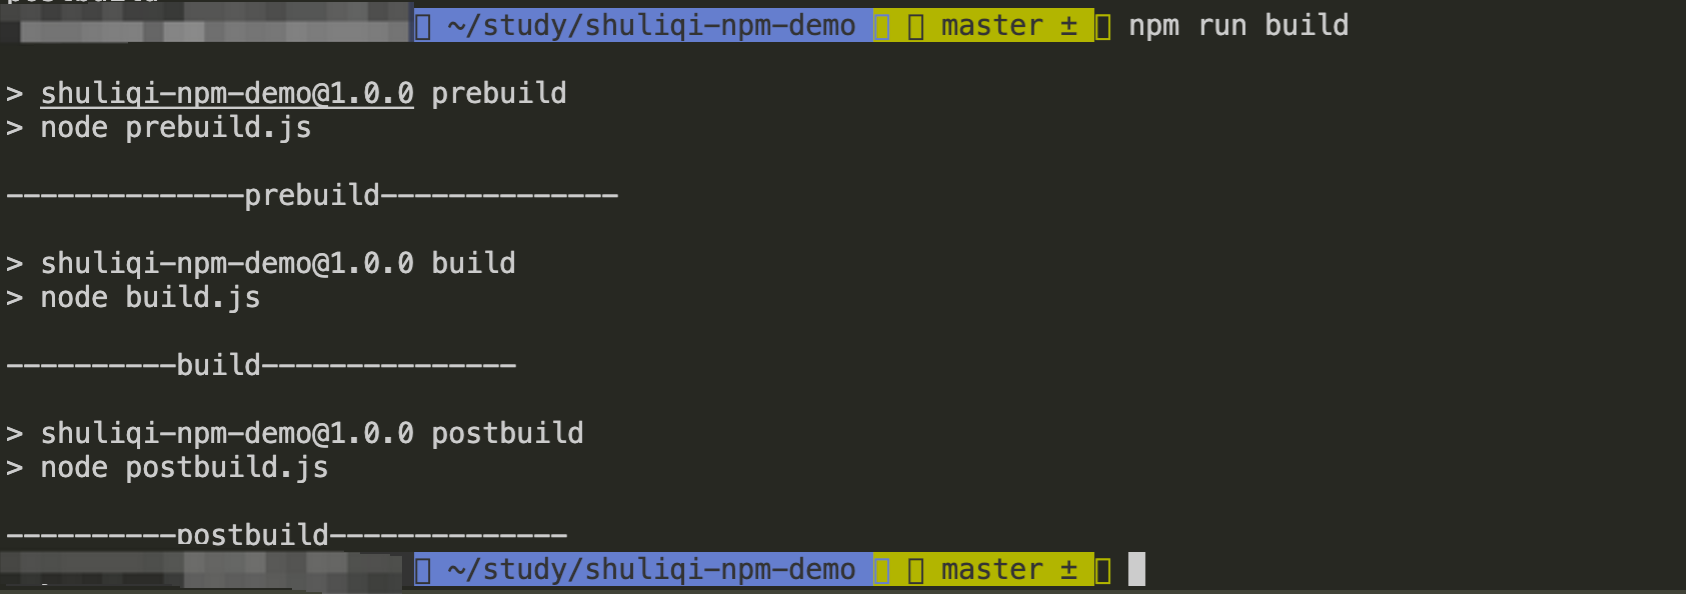
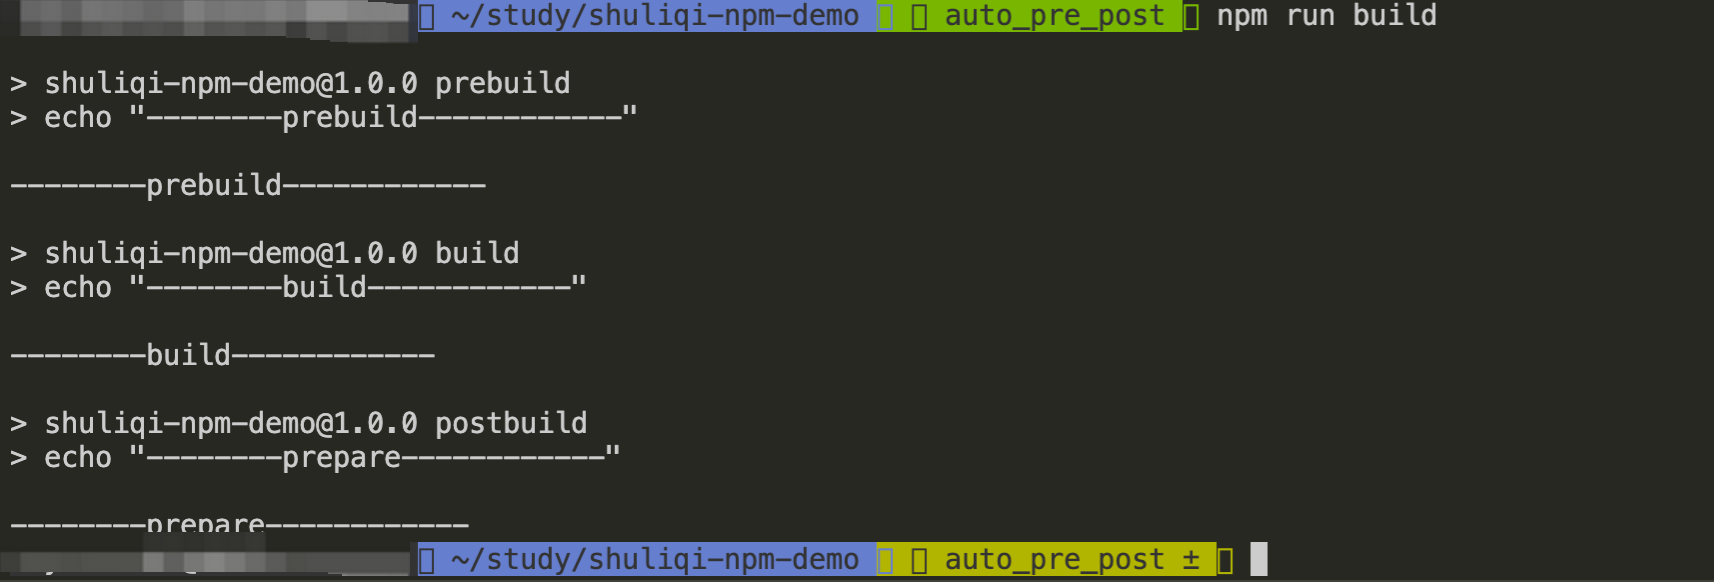
Site updated: 2022-03-22 20:47:21

diff --git a/2022/02/23/npm scripts 你真的了解吗？/index.html b/2022/02/23/npm scripts 你真的了解吗？/index.html
@@ -8,7 +8,7 @@
     noSupport: '浏览器不支持'
   },
   hexoVersion: '5.4.0'
-} </script><meta name="generator" content="Hexo 5.4.0"></head><body><i class="fa fa-arrow-right" id="toggle-sidebar" aria-hidden="true"></i><div id="sidebar" data-display="true"><div class="toggle-sidebar-info text-center"><span data-toggle="切换文章详情">切换站点概览</span><hr></div><div class="sidebar-toc"><div class="sidebar-toc__title">目录</div><div class="sidebar-toc__progress"><span class="progress-notice">你已经读了</span><span class="progress-num">0</span><span class="progress-percentage">%</span><div class="sidebar-toc__progress-bar"></div></div><div class="sidebar-toc__content"><ol class="toc"><li class="toc-item toc-level-1"><a class="toc-link" href="#%E4%BB%80%E4%B9%88%E6%98%AF-npm-%E8%84%9A%E6%9C%AC-%EF%BC%9F"><span class="toc-number">1.</span> <span class="toc-text">什么是 npm 脚本 ？</span></a></li><li class="toc-item toc-level-1"><a class="toc-link" href="#%E6%89%A7%E8%A1%8C%E5%8E%9F%E7%90%86"><span class="toc-number">2.</span> <span class="toc-text">执行原理</span></a></li><li class="toc-item toc-level-1"><a class="toc-link" href="#%E9%80%9A%E9%85%8D%E7%AC%A6"><span class="toc-number">3.</span> <span class="toc-text">通配符</span></a></li><li class="toc-item toc-level-1"><a class="toc-link" href="#%E7%94%9F%E5%91%BD%E5%91%A8%E6%9C%9F%E8%84%9A%E6%9C%AC"><span class="toc-number">4.</span> <span class="toc-text">生命周期脚本</span></a></li><li class="toc-item toc-level-1"><a class="toc-link" href="#%E4%BE%8B%E5%AD%90%E5%87%86%E5%A4%87"><span class="toc-number">5.</span> <span class="toc-text">例子准备</span></a></li><li class="toc-item toc-level-1"><a class="toc-link" href="#pre-%E5%92%8C-post-%E7%94%9F%E5%91%BD%E5%91%A8%E6%9C%9F"><span class="toc-number">6.</span> <span class="toc-text">pre 和 post 生命周期</span></a><ol class="toc-child"><li class="toc-item toc-level-2"><a class="toc-link" href="#%E7%B3%BB%E7%BB%9F%E8%87%AA%E5%B8%A6%E5%91%BD%E4%BB%A4%E7%94%9F%E5%91%BD%E5%91%A8%E6%9C%9F"><span class="toc-number">6.1.</span> <span class="toc-text">系统自带命令生命周期</span></a><ol class="toc-child"><li class="toc-item toc-level-3"><a class="toc-link" href="#npm-publish"><span class="toc-number">6.1.1.</span> <span class="toc-text">npm publish</span></a></li></ol></li></ol></li></ol></div></div><div class="author-info hide"><div class="author-info__avatar text-center"><img src="http://p6.qhimg.com/t01f5a5270b7946b505.jpg"></div><div class="author-info__name text-center">舒小琦</div><div class="author-info__description text-center"></div><hr><div class="author-info-articles"><a class="author-info-articles__archives article-meta" href="/archives"><span class="pull-left">文章</span><span class="pull-right">57</span></a><a class="author-info-articles__tags article-meta" href="/tags"><span class="pull-left">标签</span><span class="pull-right">13</span></a><a class="author-info-articles__categories article-meta" href="/categories"><span class="pull-left">分类</span><span class="pull-right">13</span></a></div></div></div><div id="content-outer"><div id="top-container" style="background-image: url(/webp.webp)"><div id="page-header"><span class="pull-left"> <a id="site-name" href="/">舒小琦的Blog</a></span><i class="fa fa-bars toggle-menu pull-right" aria-hidden="true"></i><span class="pull-right menus">   <a class="site-page" href="/">首页</a><a class="site-page" href="/archives">归档</a><a class="site-page" href="/tags">标签</a><a class="site-page" href="/categories">分类</a><a class="site-page" href="/shuliqi-design">组件</a><a class="site-page" href="/about">关于</a></span><span class="pull-right"><a class="site-page social-icon search"><i class="fa fa-search"></i><span> 搜索</span></a></span></div><div id="post-info"><div id="post-title">你真的了解 npm 脚本吗？</div><div id="post-meta"><time class="post-meta__date"><i class="fa fa-calendar" aria-hidden="true"></i> 2022-02-23</time></div></div></div><div class="layout" id="content-inner"><article id="post"><div class="article-container" id="post-content"><p>最近在写一个<code>npm</code>包。写的过程中主要存在的问题是如何在 <code>npm i &lt;package&gt;</code> 之前能够先执行一个脚本。我们本篇文章带着这个问题去了解 <code>  npm</code> 脚本。</p>
+} </script><meta name="generator" content="Hexo 5.4.0"></head><body><i class="fa fa-arrow-right" id="toggle-sidebar" aria-hidden="true"></i><div id="sidebar" data-display="true"><div class="toggle-sidebar-info text-center"><span data-toggle="切换文章详情">切换站点概览</span><hr></div><div class="sidebar-toc"><div class="sidebar-toc__title">目录</div><div class="sidebar-toc__progress"><span class="progress-notice">你已经读了</span><span class="progress-num">0</span><span class="progress-percentage">%</span><div class="sidebar-toc__progress-bar"></div></div><div class="sidebar-toc__content"><ol class="toc"><li class="toc-item toc-level-1"><a class="toc-link" href="#%E4%BB%80%E4%B9%88%E6%98%AF-npm-%E8%84%9A%E6%9C%AC-%EF%BC%9F"><span class="toc-number">1.</span> <span class="toc-text">什么是 npm 脚本 ？</span></a></li><li class="toc-item toc-level-1"><a class="toc-link" href="#%E6%89%A7%E8%A1%8C%E5%8E%9F%E7%90%86"><span class="toc-number">2.</span> <span class="toc-text">执行原理</span></a></li><li class="toc-item toc-level-1"><a class="toc-link" href="#%E9%80%9A%E9%85%8D%E7%AC%A6"><span class="toc-number">3.</span> <span class="toc-text">通配符</span></a></li><li class="toc-item toc-level-1"><a class="toc-link" href="#%E7%94%9F%E5%91%BD%E5%91%A8%E6%9C%9F%E8%84%9A%E6%9C%AC"><span class="toc-number">4.</span> <span class="toc-text">生命周期脚本</span></a></li><li class="toc-item toc-level-1"><a class="toc-link" href="#%E4%BE%8B%E5%AD%90%E5%87%86%E5%A4%87"><span class="toc-number">5.</span> <span class="toc-text">例子准备</span></a></li><li class="toc-item toc-level-1"><a class="toc-link" href="#pre-%E5%92%8C-post-%E7%94%9F%E5%91%BD%E5%91%A8%E6%9C%9F"><span class="toc-number">6.</span> <span class="toc-text">pre 和 post 生命周期</span></a></li><li class="toc-item toc-level-1"><a class="toc-link" href="#%E7%94%9F%E5%91%BD%E5%91%A8%E6%9C%9F"><span class="toc-number">7.</span> <span class="toc-text">生命周期</span></a><ol class="toc-child"><li class="toc-item toc-level-2"><a class="toc-link" href="#npm-publish"><span class="toc-number">7.1.</span> <span class="toc-text">npm publish</span></a></li><li class="toc-item toc-level-2"><a class="toc-link" href="#npm-pack"><span class="toc-number">7.2.</span> <span class="toc-text">npm pack</span></a></li><li class="toc-item toc-level-2"><a class="toc-link" href="#npm-install"><span class="toc-number">7.3.</span> <span class="toc-text">npm install</span></a></li><li class="toc-item toc-level-2"><a class="toc-link" href="#npm-ci"><span class="toc-number">7.4.</span> <span class="toc-text">npm ci</span></a></li></ol></li></ol></div></div><div class="author-info hide"><div class="author-info__avatar text-center"><img src="http://p6.qhimg.com/t01f5a5270b7946b505.jpg"></div><div class="author-info__name text-center">舒小琦</div><div class="author-info__description text-center"></div><hr><div class="author-info-articles"><a class="author-info-articles__archives article-meta" href="/archives"><span class="pull-left">文章</span><span class="pull-right">57</span></a><a class="author-info-articles__tags article-meta" href="/tags"><span class="pull-left">标签</span><span class="pull-right">13</span></a><a class="author-info-articles__categories article-meta" href="/categories"><span class="pull-left">分类</span><span class="pull-right">13</span></a></div></div></div><div id="content-outer"><div id="top-container" style="background-image: url(/webp.webp)"><div id="page-header"><span class="pull-left"> <a id="site-name" href="/">舒小琦的Blog</a></span><i class="fa fa-bars toggle-menu pull-right" aria-hidden="true"></i><span class="pull-right menus">   <a class="site-page" href="/">首页</a><a class="site-page" href="/archives">归档</a><a class="site-page" href="/tags">标签</a><a class="site-page" href="/categories">分类</a><a class="site-page" href="/shuliqi-design">组件</a><a class="site-page" href="/about">关于</a></span><span class="pull-right"><a class="site-page social-icon search"><i class="fa fa-search"></i><span> 搜索</span></a></span></div><div id="post-info"><div id="post-title">你真的了解 npm 脚本吗？</div><div id="post-meta"><time class="post-meta__date"><i class="fa fa-calendar" aria-hidden="true"></i> 2022-02-23</time></div></div></div><div class="layout" id="content-inner"><article id="post"><div class="article-container" id="post-content"><p>最近在写一个<code>npm</code>包。写的过程中主要存在的问题是如何在 <code>npm i &lt;package&gt;</code> 之前能够先执行一个脚本。我们本篇文章带着这个问题去了解 <code>  npm</code> 脚本。</p>
 <h1 id="什么是-npm-脚本-？"><a href="#什么是-npm-脚本-？" class="headerlink" title="什么是 npm 脚本 ？"></a>什么是 npm 脚本 ？</h1><p><code>npm  </code>  脚本是 <code>package.json </code>文件 <code>scripts</code>  字段存储的脚本命令。存储的脚本命令可以是：</p>
 <ul>
 <li><p>内置的脚本</p>
@@ -81,7 +81,7 @@
 <figure class="highlight bash"><table><tr><td class="gutter"><pre><span class="line">1</span><br><span class="line">2</span><br></pre></td><td class="code"><pre><span class="line">// index.js</span><br><span class="line">console.log(<span class="string">&quot;shuliqi-npm-demo&quot;</span>)</span><br></pre></td></tr></table></figure>
 
 <p>那么我们现在已经有了一个基础的例子。   </p>
-<h1 id="pre-和-post-生命周期"><a href="#pre-和-post-生命周期" class="headerlink" title="pre 和 post 生命周期"></a>pre 和 post 生命周期</h1><p>当我们执行任意的 <code>npm run xxx</code> 脚本的时候， 回依次自动触发<code>prexxx</code>, <code>postxxx</code>的生命周期。</p>
+<h1 id="pre-和-post-生命周期"><a href="#pre-和-post-生命周期" class="headerlink" title="pre 和 post 生命周期"></a>pre 和 post 生命周期</h1><p>当我们执行任意的 <code>npm run &lt;event&gt;</code> 脚本的时候， 回依次自动触发<code>pre&lt;event&gt;</code>, <code>post&lt;event&gt;</code>的生命周期。</p>
 <p>假如有一个命令叫 <code>build</code>。那么当执行<code>npm run build</code>时：</p>
 <ol>
 <li>在此之前先执行 <code>npm run prebuild</code></li>
@@ -89,52 +89,79 @@
 </ol>
 <p>例子：</p>
 <p><code>packge.json:</code></p>
-<figure class="highlight json"><table><tr><td class="gutter"><pre><span class="line">1</span><br><span class="line">2</span><br><span class="line">3</span><br><span class="line">4</span><br><span class="line">5</span><br><span class="line">6</span><br><span class="line">7</span><br><span class="line">8</span><br><span class="line">9</span><br><span class="line">10</span><br><span class="line">11</span><br><span class="line">12</span><br><span class="line">13</span><br></pre></td><td class="code"><pre><span class="line">&#123;</span><br><span class="line">  <span class="attr">&quot;name&quot;</span>: <span class="string">&quot;shuliqi-npm-demo&quot;</span>,</span><br><span class="line">  <span class="attr">&quot;version&quot;</span>: <span class="string">&quot;1.0.0&quot;</span>,</span><br><span class="line">  <span class="attr">&quot;description&quot;</span>: <span class="string">&quot;&quot;</span>,</span><br><span class="line">  <span class="attr">&quot;main&quot;</span>: <span class="string">&quot;index.js&quot;</span>,</span><br><span class="line">  <span class="attr">&quot;scripts&quot;</span>: &#123;</span><br><span class="line">    <span class="attr">&quot;prebuild&quot;</span>: <span class="string">&quot;node prebuild.js&quot;</span>,</span><br><span class="line">    <span class="attr">&quot;build&quot;</span>: <span class="string">&quot;node build.js&quot;</span>,</span><br><span class="line">    <span class="attr">&quot;postbuild&quot;</span>: <span class="string">&quot;node postbuild.js&quot;</span></span><br><span class="line">  &#125;,</span><br><span class="line">  <span class="attr">&quot;author&quot;</span>: <span class="string">&quot;shuliqi&quot;</span>,</span><br><span class="line">  <span class="attr">&quot;license&quot;</span>: <span class="string">&quot;ISC&quot;</span></span><br><span class="line">&#125;</span><br></pre></td></tr></table></figure>
-
-
-
-<p><code>prebuild.js:</code></p>
-<figure class="highlight javascript"><table><tr><td class="gutter"><pre><span class="line">1</span><br></pre></td><td class="code"><pre><span class="line"><span class="built_in">console</span>.log(<span class="string">&quot;--------------prebuild--------------&quot;</span>)</span><br></pre></td></tr></table></figure>
-
-
-
-<p> <code>build.js:</code></p>
-<figure class="highlight javascript"><table><tr><td class="gutter"><pre><span class="line">1</span><br></pre></td><td class="code"><pre><span class="line"><span class="built_in">console</span>.log(<span class="string">&quot;----------build---------------&quot;</span>)</span><br></pre></td></tr></table></figure>
-
-
-
-<p><code>postbuild.js：</code></p>
-<figure class="highlight javascript"><table><tr><td class="gutter"><pre><span class="line">1</span><br></pre></td><td class="code"><pre><span class="line"><span class="built_in">console</span>.log(<span class="string">&quot;----------postbuild--------------&quot;</span>)</span><br></pre></td></tr></table></figure>
-
-
+<figure class="highlight json"><table><tr><td class="gutter"><pre><span class="line">1</span><br><span class="line">2</span><br><span class="line">3</span><br><span class="line">4</span><br><span class="line">5</span><br><span class="line">6</span><br><span class="line">7</span><br><span class="line">8</span><br><span class="line">9</span><br><span class="line">10</span><br><span class="line">11</span><br><span class="line">12</span><br><span class="line">13</span><br><span class="line">14</span><br><span class="line">15</span><br></pre></td><td class="code"><pre><span class="line">&#123;</span><br><span class="line">  <span class="attr">&quot;name&quot;</span>: <span class="string">&quot;shuliqi-npm-demo&quot;</span>,</span><br><span class="line">  <span class="attr">&quot;version&quot;</span>: <span class="string">&quot;1.0.0&quot;</span>,</span><br><span class="line">  <span class="attr">&quot;description&quot;</span>: <span class="string">&quot;&quot;</span>,</span><br><span class="line">  <span class="attr">&quot;main&quot;</span>: <span class="string">&quot;index.js&quot;</span>,</span><br><span class="line"></span><br><span class="line">  <span class="attr">&quot;scripts&quot;</span>: &#123;</span><br><span class="line">    <span class="attr">&quot;prebuild&quot;</span>:  <span class="string">&quot;echo \&quot;--------prebuild------------\&quot; &quot;</span>,</span><br><span class="line">    <span class="attr">&quot;build&quot;</span>:  <span class="string">&quot;echo \&quot;--------build------------\&quot; &quot;</span>,</span><br><span class="line">    <span class="attr">&quot;postbuild&quot;</span>:  <span class="string">&quot;echo \&quot;--------prepare------------\&quot; &quot;</span></span><br><span class="line">  &#125;,</span><br><span class="line">  <span class="attr">&quot;author&quot;</span>: <span class="string">&quot;shuliqi&quot;</span>,</span><br><span class="line">  <span class="attr">&quot;license&quot;</span>: <span class="string">&quot;ISC&quot;</span></span><br><span class="line">&#125;</span><br><span class="line"></span><br></pre></td></tr></table></figure>
 
 <p>如上代码我们执行 <code>npm run build</code> 的时候，结果如下：</p>
 <img src="/2022/02/23/npm%20scripts%20%E4%BD%A0%E7%9C%9F%E7%9A%84%E4%BA%86%E8%A7%A3%E5%90%97%EF%BC%9F/1.png" class="">
 
 
 
-<p>如需代码可点击： <a target="_blank" rel="noopener" href="https://github.com/shuliqi/npm-demo/tree/auto_pre_post">npm-demo</a></p>
-<h2 id="系统自带命令生命周期"><a href="#系统自带命令生命周期" class="headerlink" title="系统自带命令生命周期"></a>系统自带命令生命周期</h2><p>这部分主要列举一些常用系统自带的生命周期脚本。</p>
-<h3 id="npm-publish"><a href="#npm-publish" class="headerlink" title="npm publish"></a>npm publish</h3><p>该命令是对包进行发布。当执行 <code>npm publish</code>  会执行如下的顺序脚本：</p>
-<ul>
-<li>在此之前会执行 <code>npm run prepublishOnly</code></li>
-<li>在此之后会执行 <code>npm run postpublish</code></li>
-</ul>
+<p>本例子如需代码可点击： <a target="_blank" rel="noopener" href="https://github.com/shuliqi/npm-demo/tree/auto_pre_post">npm-demo</a></p>
+<h1 id="生命周期"><a href="#生命周期" class="headerlink" title="生命周期"></a>生命周期</h1><p>这部分主要列举一些常用系统自带的生命周期脚本。</p>
+<h2 id="npm-publish"><a href="#npm-publish" class="headerlink" title="npm publish"></a>npm publish</h2><p>该命令是对包进行发布。当执行 <code>npm publish</code>  会执行如下的顺序脚本：</p>
+<ol>
+<li><code>prepublishOnly</code></li>
+<li><code>prepack</code></li>
+<li><code>postpack</code></li>
+<li><code>publish</code></li>
+<li><code>postpublish</code></li>
+</ol>
 <p>例子：</p>
 <p><code>packge.json:</code></p>
-<figure class="highlight json"><table><tr><td class="gutter"><pre><span class="line">1</span><br><span class="line">2</span><br><span class="line">3</span><br><span class="line">4</span><br><span class="line">5</span><br><span class="line">6</span><br><span class="line">7</span><br><span class="line">8</span><br><span class="line">9</span><br><span class="line">10</span><br><span class="line">11</span><br><span class="line">12</span><br></pre></td><td class="code"><pre><span class="line">&#123;</span><br><span class="line">  <span class="attr">&quot;name&quot;</span>: <span class="string">&quot;shuliqi-npm-demo&quot;</span>,</span><br><span class="line">  <span class="attr">&quot;version&quot;</span>: <span class="string">&quot;1.0.1&quot;</span>,</span><br><span class="line">  <span class="attr">&quot;description&quot;</span>: <span class="string">&quot;&quot;</span>,</span><br><span class="line">  <span class="attr">&quot;main&quot;</span>: <span class="string">&quot;index.js&quot;</span>,</span><br><span class="line">  <span class="attr">&quot;scripts&quot;</span>: &#123;</span><br><span class="line">    <span class="attr">&quot;prepublishOnly&quot;</span>: <span class="string">&quot;node prepublishOnly.js&quot;</span>,</span><br><span class="line">    <span class="attr">&quot;postpublish&quot;</span>: <span class="string">&quot;node postpublish.js&quot;</span></span><br><span class="line">  &#125;,</span><br><span class="line">  <span class="attr">&quot;author&quot;</span>: <span class="string">&quot;shuliqi&quot;</span>,</span><br><span class="line">  <span class="attr">&quot;license&quot;</span>: <span class="string">&quot;ISC&quot;</span></span><br><span class="line">&#125;</span><br></pre></td></tr></table></figure>
-
-<p><code>prepublishOnly.js:</code></p>
-<figure class="highlight javascript"><table><tr><td class="gutter"><pre><span class="line">1</span><br></pre></td><td class="code"><pre><span class="line"><span class="built_in">console</span>.log(<span class="string">&quot;--------prepublishOnly-----&quot;</span>)</span><br></pre></td></tr></table></figure>
-
-<p><code> postpublish.js:</code></p>
-<figure class="highlight javascript"><table><tr><td class="gutter"><pre><span class="line">1</span><br></pre></td><td class="code"><pre><span class="line"><span class="built_in">console</span>.log(<span class="string">&quot;-------postpublish------&quot;</span>)</span><br></pre></td></tr></table></figure>
+<figure class="highlight json"><table><tr><td class="gutter"><pre><span class="line">1</span><br><span class="line">2</span><br><span class="line">3</span><br><span class="line">4</span><br><span class="line">5</span><br><span class="line">6</span><br><span class="line">7</span><br><span class="line">8</span><br><span class="line">9</span><br><span class="line">10</span><br><span class="line">11</span><br><span class="line">12</span><br><span class="line">13</span><br><span class="line">14</span><br><span class="line">15</span><br></pre></td><td class="code"><pre><span class="line">&#123;</span><br><span class="line">  <span class="attr">&quot;name&quot;</span>: <span class="string">&quot;shuliqi-npm-demo&quot;</span>,</span><br><span class="line">  <span class="attr">&quot;version&quot;</span>: <span class="string">&quot;1.0.17&quot;</span>,</span><br><span class="line">  <span class="attr">&quot;description&quot;</span>: <span class="string">&quot;&quot;</span>,</span><br><span class="line">  <span class="attr">&quot;main&quot;</span>: <span class="string">&quot;index.js&quot;</span>,</span><br><span class="line">  <span class="attr">&quot;scripts&quot;</span>: &#123;</span><br><span class="line">    <span class="attr">&quot;prepublishOnly&quot;</span>:  <span class="string">&quot;echo \&quot;--------prepublishOnly------------\&quot; &quot;</span>,</span><br><span class="line">    <span class="attr">&quot;prepack&quot;</span>:  <span class="string">&quot;echo \&quot;--------prepack------------\&quot; &quot;</span>,</span><br><span class="line">    <span class="attr">&quot;prepare&quot;</span>:  <span class="string">&quot;echo \&quot;--------prepare------------\&quot; &quot;</span>,</span><br><span class="line">    <span class="attr">&quot;postpack&quot;</span>:  <span class="string">&quot;echo \&quot;--------postpack------------\&quot; &quot;</span>,</span><br><span class="line">    <span class="attr">&quot;postpublish&quot;</span>:  <span class="string">&quot;echo \&quot;--------postpublish------------\&quot; &quot;</span></span><br><span class="line">  &#125;,</span><br><span class="line">  <span class="attr">&quot;author&quot;</span>: <span class="string">&quot;shuliqi&quot;</span>,</span><br><span class="line">  <span class="attr">&quot;license&quot;</span>: <span class="string">&quot;ISC&quot;</span></span><br><span class="line">&#125;</span><br></pre></td></tr></table></figure>
 
 <p>结果：</p>
 <img src="/2022/02/23/npm%20scripts%20%E4%BD%A0%E7%9C%9F%E7%9A%84%E4%BA%86%E8%A7%A3%E5%90%97%EF%BC%9F/2.png" class="">
 
-<p>如需代码可点击： <a target="_blank" rel="noopener" href="https://github.com/shuliqi/npm-demo/tree/npm_publish">npm publish</a></p>
-<p>未完待续….</p>
+<p>本例子如需代码可点击： <a target="_blank" rel="noopener" href="https://github.com/shuliqi/npm-demo/tree/npm_publish">npm publish</a></p>
+<h2 id="npm-pack"><a href="#npm-pack" class="headerlink" title="npm pack"></a>npm pack</h2><p>该命令是对当前目录下任何可安装的内容（软件包，<code>tarball</code>，<code>tarball url</code>，<code>name@tag</code>，<code>name@version</code>，名称或者作用域名称）提取到缓存中。然后将 <code>tarball </code>复制到当前工作环目录，名为<code>&lt;name-version&gt;.tgz</code>。</p>
+<p>当执行 <code>npm pack</code>的时候会执行如下的脚本顺序：</p>
+<ul>
+<li> <code>prepack </code></li>
+<li> <code>postpack</code></li>
+</ul>
+<p>例子：</p>
+<p><code>packge.json:</code></p>
+<figure class="highlight json"><table><tr><td class="gutter"><pre><span class="line">1</span><br><span class="line">2</span><br><span class="line">3</span><br><span class="line">4</span><br><span class="line">5</span><br><span class="line">6</span><br><span class="line">7</span><br><span class="line">8</span><br><span class="line">9</span><br><span class="line">10</span><br><span class="line">11</span><br><span class="line">12</span><br></pre></td><td class="code"><pre><span class="line">&#123;</span><br><span class="line">  <span class="attr">&quot;name&quot;</span>: <span class="string">&quot;shuliqi-npm-demo&quot;</span>,</span><br><span class="line">  <span class="attr">&quot;version&quot;</span>: <span class="string">&quot;1.0.17&quot;</span>,</span><br><span class="line">  <span class="attr">&quot;description&quot;</span>: <span class="string">&quot;&quot;</span>,</span><br><span class="line">  <span class="attr">&quot;main&quot;</span>: <span class="string">&quot;index.js&quot;</span>,</span><br><span class="line">  <span class="attr">&quot;scripts&quot;</span>: &#123;</span><br><span class="line">    <span class="attr">&quot;prepack&quot;</span>:  <span class="string">&quot;echo \&quot;--------prepack------------\&quot; &quot;</span>,</span><br><span class="line">    <span class="attr">&quot;postpack&quot;</span>:  <span class="string">&quot;echo \&quot;--------postpack------------\&quot; &quot;</span></span><br><span class="line">  &#125;,</span><br><span class="line">  <span class="attr">&quot;author&quot;</span>: <span class="string">&quot;shuliqi&quot;</span>,</span><br><span class="line">  <span class="attr">&quot;license&quot;</span>: <span class="string">&quot;ISC&quot;</span></span><br><span class="line">&#125;</span><br></pre></td></tr></table></figure>
+
+<p>结果：</p>
+<img src="/2022/02/23/npm%20scripts%20%E4%BD%A0%E7%9C%9F%E7%9A%84%E4%BA%86%E8%A7%A3%E5%90%97%EF%BC%9F/3.png" class="">
+
+<p>本例子如需代码可点击： <a target="_blank" rel="noopener" href="https://github.com/shuliqi/npm-demo/tree/npm_pack">npm pack</a></p>
+<h2 id="npm-install"><a href="#npm-install" class="headerlink" title="npm install"></a>npm install</h2><p>该命令是用来安装依赖的。具体操作是当发出<code>npm install &lt;packge&gt;</code>的命令时会发生如下的情况：</p>
+<ol>
+<li><code>npm</code> 向 <code>registry</code> 查询模块压缩包的网址。</li>
+<li>下载压缩包，存放在 <code>~/.npm</code> 目录。</li>
+<li>解压压缩包到当前目录的 <code>node_modules</code> 目录。</li>
+</ol>
+<p>当执行 <code>npm install &lt;packge&gt;</code>的时候也会有生命周期，具体执行的脚本顺序如下：</p>
+<ol>
+<li><p><code>preinstall</code></p>
+</li>
+<li><p><code>install</code></p>
+</li>
+<li><p><code>postinstall</code></p>
+</li>
+</ol>
+<p>例子：</p>
+<p><code>packge.json：</code></p>
+<figure class="highlight json"><table><tr><td class="gutter"><pre><span class="line">1</span><br><span class="line">2</span><br><span class="line">3</span><br><span class="line">4</span><br><span class="line">5</span><br><span class="line">6</span><br><span class="line">7</span><br><span class="line">8</span><br><span class="line">9</span><br><span class="line">10</span><br><span class="line">11</span><br><span class="line">12</span><br></pre></td><td class="code"><pre><span class="line">&#123;</span><br><span class="line">  <span class="attr">&quot;name&quot;</span>: <span class="string">&quot;shuliqi-npm-demo&quot;</span>,</span><br><span class="line">  <span class="attr">&quot;version&quot;</span>: <span class="string">&quot;1.0.18&quot;</span>,</span><br><span class="line">  <span class="attr">&quot;description&quot;</span>: <span class="string">&quot;&quot;</span>,</span><br><span class="line">  <span class="attr">&quot;main&quot;</span>: <span class="string">&quot;index.js&quot;</span>,</span><br><span class="line">  <span class="attr">&quot;scripts&quot;</span>: &#123;</span><br><span class="line">    <span class="attr">&quot;preinstall&quot;</span>:  <span class="string">&quot;echo \&quot;--------preinstall------------\&quot; &quot;</span>,</span><br><span class="line">    <span class="attr">&quot;postinstall&quot;</span>:  <span class="string">&quot;echo \&quot;--------postinstall------------\&quot; &quot;</span></span><br><span class="line">  &#125;,</span><br><span class="line">  <span class="attr">&quot;author&quot;</span>: <span class="string">&quot;shuliqi&quot;</span>,</span><br><span class="line">  <span class="attr">&quot;license&quot;</span>: <span class="string">&quot;ISC&quot;</span></span><br><span class="line">&#125;</span><br></pre></td></tr></table></figure>
+
+<p>表示在安装依赖之前先执行<code>preinstall</code>脚本。之后执行<code>postinstall</code>脚本。</p>
+<p>到这我们的代码已经发成了， 现在我们需要把这个包发布，最后来 <code>npm install</code>该包看看结果。发布只需要在项目根目录执行<code>npm publish</code> 即可。</p>
+<p>结果：</p>
+<p>我们执行 <code>npm install shuliqi-npm-demo@1.0.18 --loglevel info </code>来下载我们这个 <code>npm</code> 包。 其中 <code>--loglevel info</code> 表示我们需要在控制台显示 <code>info</code>级别的信息。</p>
+<blockquote>
+<p>关于 <a target="_blank" rel="noopener" href="https://docs.npmjs.com/cli/v8/using-npm/logging#foreground-scripts">–logleve 详情</a></p>
+</blockquote>
+<img src="/2022/02/23/npm%20scripts%20%E4%BD%A0%E7%9C%9F%E7%9A%84%E4%BA%86%E8%A7%A3%E5%90%97%EF%BC%9F/4.png" class="">
+
+<p>从图上可看出： <code>preinstall</code> 脚本在 <code>postinstall</code>脚本之前。</p>
+<blockquote>
+<p>这个生命周期也是我们文章开头想要实现的功能。解决！！！！</p>
+</blockquote>
+<p>本例子如需代码可点击： <a target="_blank" rel="noopener" href="https://github.com/shuliqi/npm-demo/tree/npm_install">npm install</a></p>
+<h2 id="npm-ci"><a href="#npm-ci" class="headerlink" title="npm ci"></a>npm ci</h2><p>未完待续</p>
 </div></article><div class="post-copyright"><div class="post-copyright__author"><span class="post-copyright-meta">文章作者: </span><span class="post-copyright-info"><a href="mailto:undefined">舒小琦</a></span></div><div class="post-copyright__type"><span class="post-copyright-meta">文章链接: </span><span class="post-copyright-info"><a href="https://shuliqi.github.io/2022/02/23/npm scripts 你真的了解吗？/">https://shuliqi.github.io/2022/02/23/npm scripts 你真的了解吗？/</a></span></div><div class="post-copyright__notice"><span class="post-copyright-meta">版权声明: </span><span class="post-copyright-info">本博客所有文章除特别声明外，均采用 <a target="_blank" rel="noopener" href="https://creativecommons.org/licenses/by-nc-sa/4.0/">CC BY-NC-SA 4.0</a> 许可协议。转载请注明来自 <a href="https://shuliqi.github.io">舒小琦的Blog</a>！</span></div></div><div class="post-meta__tag-list"></div><nav id="pagination"><div class="next-post pull-right"><a href="/2022/01/04/Koa-%E6%BA%90%E7%A0%81%E9%98%85%E8%AF%BB%E5%AD%A6%E4%B9%A0%E7%AC%94%E8%AE%B0/"><span>Koa 源码阅读学习笔记</span><i class="fa fa-chevron-right"></i></a></div></nav></div></div><footer class="footer-bg" style="background-image: url(/webp.webp)"><div class="layout" id="footer"><div class="copyright">&copy;2013 - 2022 By 舒小琦</div><div class="framework-info"><span>驱动 - </span><a target="_blank" rel="noopener" href="http://hexo.io"><span>Hexo</span></a><span class="footer-separator">|</span><span>主题 - </span><a target="_blank" rel="noopener" href="https://github.com/Molunerfinn/hexo-theme-melody"><span>Melody</span></a></div><div class="footer_custom_text">hitokoto</div><div class="busuanzi"><script async src="//busuanzi.ibruce.info/busuanzi/2.3/busuanzi.pure.mini.js"></script><span id="busuanzi_container_page_pv"><i class="fa fa-file"></i><span id="busuanzi_value_page_pv"></span><span></span></span></div></div></footer><i class="fa fa-arrow-up" id="go-up" aria-hidden="true"></i><script src="https://cdn.jsdelivr.net/npm/animejs@latest/anime.min.js"></script><script src="https://cdn.jsdelivr.net/npm/jquery@latest/dist/jquery.min.js"></script><script src="https://cdn.jsdelivr.net/npm/@fancyapps/fancybox@latest/dist/jquery.fancybox.min.js"></script><script src="https://cdn.jsdelivr.net/npm/velocity-animate@latest/velocity.min.js"></script><script src="https://cdn.jsdelivr.net/npm/velocity-ui-pack@latest/velocity.ui.min.js"></script><script src="/js/utils.js?version=1.9.0"></script><script src="/js/fancybox.js?version=1.9.0"></script><script src="/js/sidebar.js?version=1.9.0"></script><script src="/js/copy.js?version=1.9.0"></script><script src="/js/fireworks.js?version=1.9.0"></script><script src="/js/transition.js?version=1.9.0"></script><script src="/js/scroll.js?version=1.9.0"></script><script src="/js/head.js?version=1.9.0"></script><script src="/js/search/local-search.js"></script><script>if(/Android|webOS|iPhone|iPod|iPad|BlackBerry/i.test(navigator.userAgent)) {
   $('#nav').addClass('is-mobile')
   $('footer').addClass('is-mobile')
